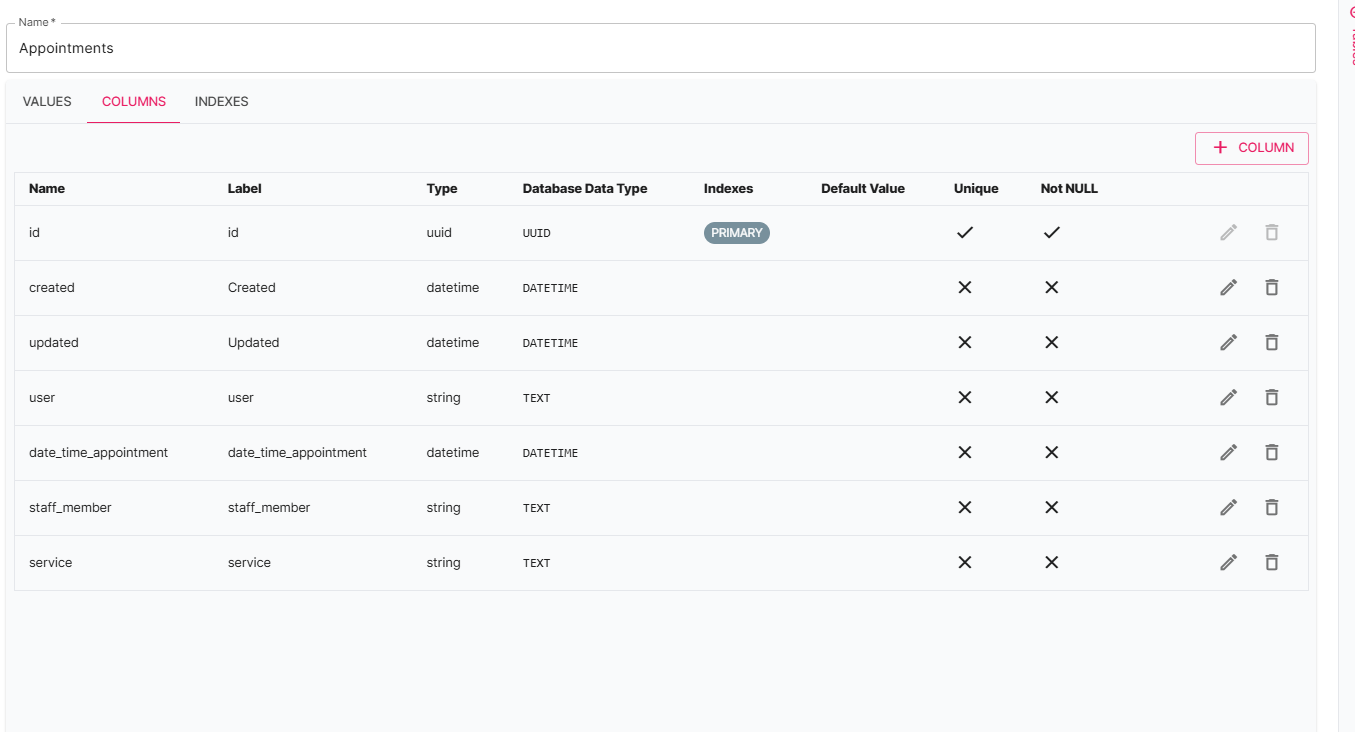
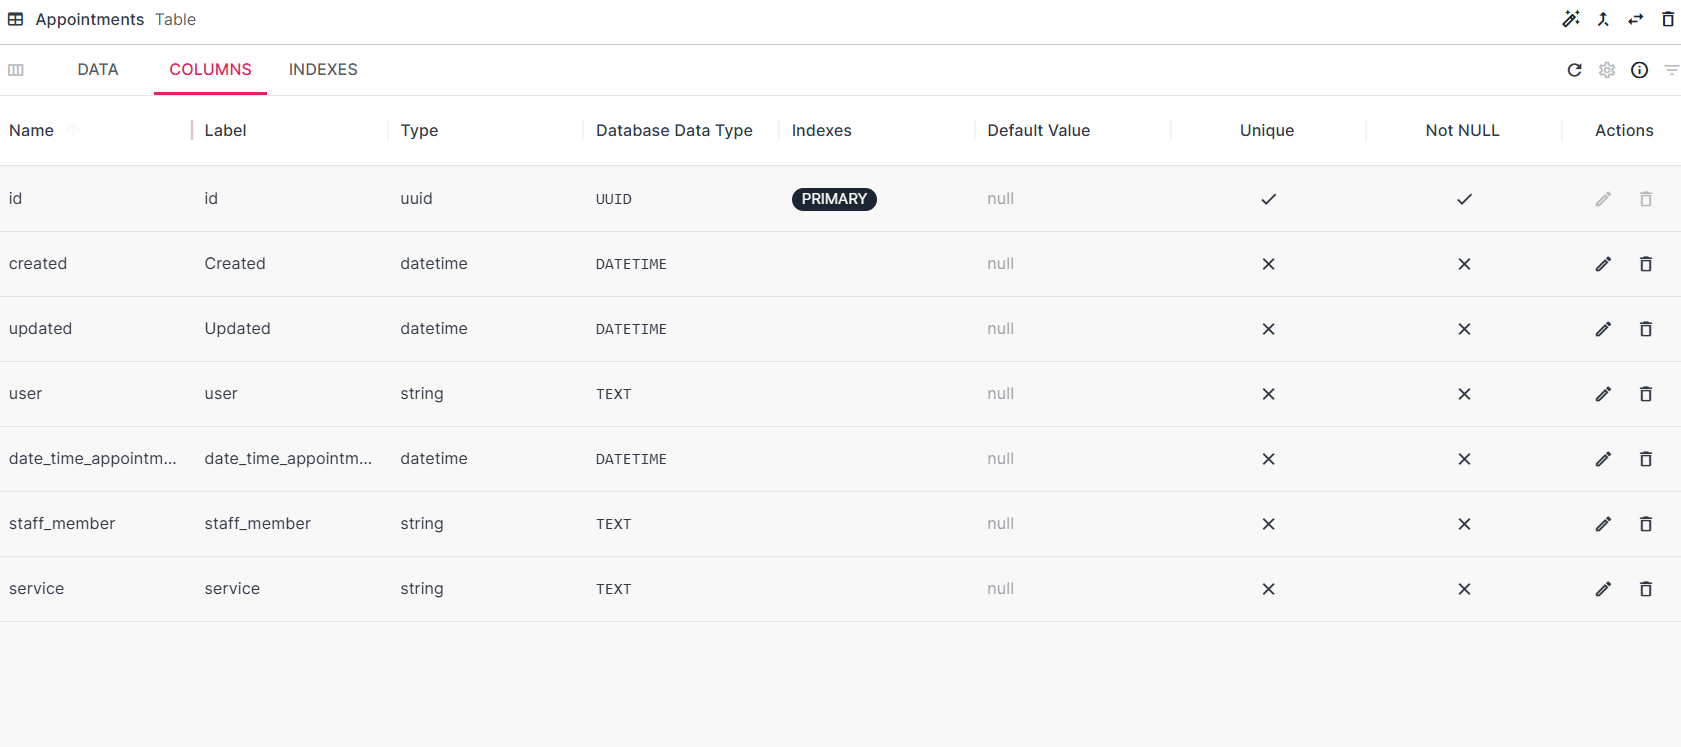
New Buttons

diff --git a/src/cookbook/app/buttons.md b/src/cookbook/app/buttons.md
@@ -1,18 +1,38 @@
-# Custom Button
+# Buttons
+Buttons are one of the most common and essential components in any app interface. They allow users to **interact with your app**, perform actions, and navigate through content. There are a few main types of buttons: 
+- Normal (Basic) buttons
+- Submit buttons
+- Custom buttons
+- Icon buttons
+- Floating Action button 
+- Link Button
 
-A **Custom Button** provides complete **flexibility and control**.
-It has no predefined behavior, you decide exactly what it should do through **actions**, **workflows**, or **navigation rules**.
+## Basic Buttons
+Basic buttons are standard clickable elements that usually contain **text labels**. They are ideal for actions where you want the user to clearly understand what will happen when they click, such as:  
 
-This makes it perfect for creating **tailored user interactions**, such as:
+- **Submit a form** (e.g., “Book Appointment”)  
+- **Navigate to another page** (e.g., “View Details”)  
+- **Trigger an action** (e.g., “Generate Report”)  
 
-* Running automations or calling external APIs
-* Navigating to a different page
-* Triggering conditional logic or displaying popups
-* Executing tasks independently from form submissions
+**Key features of normal buttons:**
+- Display descriptive text for clarity  
+- Can include icons alongside text for added visual cues  
+- Support hover effects, click animations, and a bbasic level of styling  
+- Can trigger workflows, automations, or navigation events 
+- Can Automatically adopt the app’s theme for colors and sizing  
 
-Additionally, a custom button lets you **embed other components within it**, such as icons, loading indicators, or dynamic status messages, giving you both **functional and visual freedom** in your app design.
+## Submit Buttons
+Submit Buttons have all the futuers adn functionality you can find in a generic button, but is generally used for forms. 
 
----
+This is because it has the extra functionality of submitting any form the button is palced in witout having to configure it to do so. 
+
+> ⚠ **Warning**
+> A submit button submits **all forms it is contained within**.
+> If forms are nested, all nested forms will be submitted.
+
+# Custom Buttons
+
+A **Custom Button** provides complete **flexibility and control**. Unlike normal or submit buttons, which are mostly predefined, a custom button allows you to **decide more exacly how it should look**.
 
 ## Variants
 
@@ -20,25 +40,48 @@ Custom buttons include a **variant** property that enables a wider range of styl
 
 - **Button (default)** – Configurable size, click, hover effects, and corner rounding  
 - **Div** – Supports mouse click and hover events; behaves like a clickable container  
-- **Paper** – Includes mouse click and hover events, as well as elevation
+- **Paper** – Includes mouse click and hover events, as well as elevation  
 
-✅ **Best for:** Actions that go beyond saving data, such as *“Book Appointment”*, *“Generate Report”*, *“Send Email”*, or *“Open Modal”*
+**Best for:** Actions that go beyond saving data, such as *“Book Appointment”*, *“Generate Report”*, *“Send Email”*, or *“Open Modal”*  
+
+A custom button lets you **embed other components within it**, such as icons, loading indicators, or dynamic status messages, giving you more **functional and visual freedom** in your app design.
 
 ---
 
-## Form Button Scenarios
+## Icon Buttons
+Icon buttons contain **only an icon** instead of text. They are perfect for actions that are widely understood by their visual representation, such as:  
+
+- Opening a modal or popup  
+- Navigating to a section of the app  
+- Performing quick actions (e.g., edit, delete, or favorite)  
+
+**Key features of icon buttons:**
+- Use pre-defined icons or custom icons  
+- Automatically adopt the app’s theme for colors and sizing  
+- Maintain a clean and minimal interface  
+- Ideal for toolbar actions or secondary actions  
+
+---
+
+## Floating action Buttons
+Floating Action Buttons (FABs) are a type of button used to highlight a primary action on a page.
+They are designed to stand out and remain easily accessible, floating above other content rather than being embedded in the page.
+
+Common Use Cases:
+- Adding a new item (e.g., Add Contact, Create Task)
+- Starting a new message or email
+
+## Button Scenarios
 
 Imagine you’re building a scheduling app where users can book services with available staff. On the **Create Appointment** page, users should be able to select a service, choose a date and time, pick a preferred staff member, and confirm their booking, all in one smooth flow.
 
 ### 📝 Background Configuration
 
 Used to confirm and submit an appointment booking form.  
-Create the backend automation:  
-
+Create a workspace:  
+![](src/assets/cookbook/buttons/image0.png)
 Create an automation project → datastore → table:
-![](src/assets/cookbook/buttons/image1.png)
-
-![](/src/assets/cookbook/buttons/image2.png)
+![](src/assets/cookbook/buttons/image1.gif)
 
 Add the columns desired to the table, in this case 
 
@@ -62,18 +105,21 @@ Create a list of options for users in the form:
 And a datastore variable list of staff:  
 ![](/src/assets/cookbook/buttons/image7.png)
 
-
 ### Create the App UI to Submit Using a Submit Button
 ![](/src/assets/cookbook/buttons/image8.png)
 
 
 Example steps:  
-- Add a repeating layout and a form component:
+- Add a flex layout and a form component:
 ![](/src/assets/cookbook/buttons/image9.gif)  
 
 
-- Add your listener to the app using the app settings ⚙ and update your form to use that listener:  
-![](/src/assets/cookbook/buttons/image10.gif)
+- Add your listener to the app using the app settings:  
+![](/src/assets/cookbook/buttons/image10-1.gif)
+![](/src/assets/cookbook/buttons/image10-2.gif)
+
+- Update your form to use that listener:
+![](/src/assets/cookbook/buttons/image10-3.gif)
 
 - Add form fields matching the type of data you are passing through:  
 ![Example Datetie form field](/src/assets/cookbook/buttons/image11.gif)
@@ -83,6 +129,13 @@ Example steps:
 
 On submit, the form will indicate whether the booking was successful.
 
+### Basic Button Notes
+Basic Buttons are essentially a sell customizable version of custom buttons.
+
+Unlike a submit button, Basic buttons are not directly linked to the form component. If you try to preview the button and click on it, nothing will happen by default.
+
+We demonstrate how to do this in the custom buttons section
+
 ### Create the App UI to Submit Using a Custom Button
 At this stage, you’ll replace the standard submit button with a custom button and configure to have a confirmation box before submitting the information.
 
@@ -91,7 +144,7 @@ Unlike a submit button, a custom button in Toca provides much greater visual and
 As previously mentioned custom button allows you to:
 - Add other components inside it (like icons, loaders, or status messages).
 - Control exactly what happens on click, rather than immediately submitting the form.
-- Connect it to specific logic flows or automation (e.g., “Check Availability” before “Book Appointment”).
+- Connect it to specific logic flows or automation before submitting a form (e.g., “Check Availability” before “Book Appointment”).
 - Customize its appearance, colors, animations, and layout, to better fit your app’s design.
 
 Try to play around with some of the components and change the look of your button. 
@@ -161,7 +214,7 @@ Tip: you could also add a snackbar notification for informing users that their a
 ![alt text](/src/assets/cookbook/buttons/image21.png)
 ![alt text](/src/assets/cookbook/buttons/image22.gif)
 
-## Open modal using an icon button 
+### Add app functionality using an icon button 
 Often, a button doesn’t need any text.  
 
 Icon buttons allow you to:  
@@ -187,3 +240,15 @@ The button will need to be configured to open the descriptions page on click.
 
 **Test the button in preview**
 ![alt text](/src/assets/cookbook/buttons/image26.gif)
+
+### Add app functionality using an Floating Action Button 
+In your app you may want for customers to easly contact support in the case of questions or issues with booking their appointment. 
+
+Lets use a floating button action to make the contact form easly acessible to your users:
+- Create a new page ( e.g. contact form) and configure a new form with some fields.
+- get the app URL and add the new page SLUG ( e.g. https://example.app.io/any-cabinet-8003 + / + PAGE SLUG)
+![url](/src/assets/cookbook/buttons/image27.png)
+![SLUG](/src/assets/cookbook/buttons/image28.png)
+![SLUG](/src/assets/cookbook/buttons/image29.png)
+- Configure the floating button to redirect to that page when clicked
+Preview page and click on the floating button
